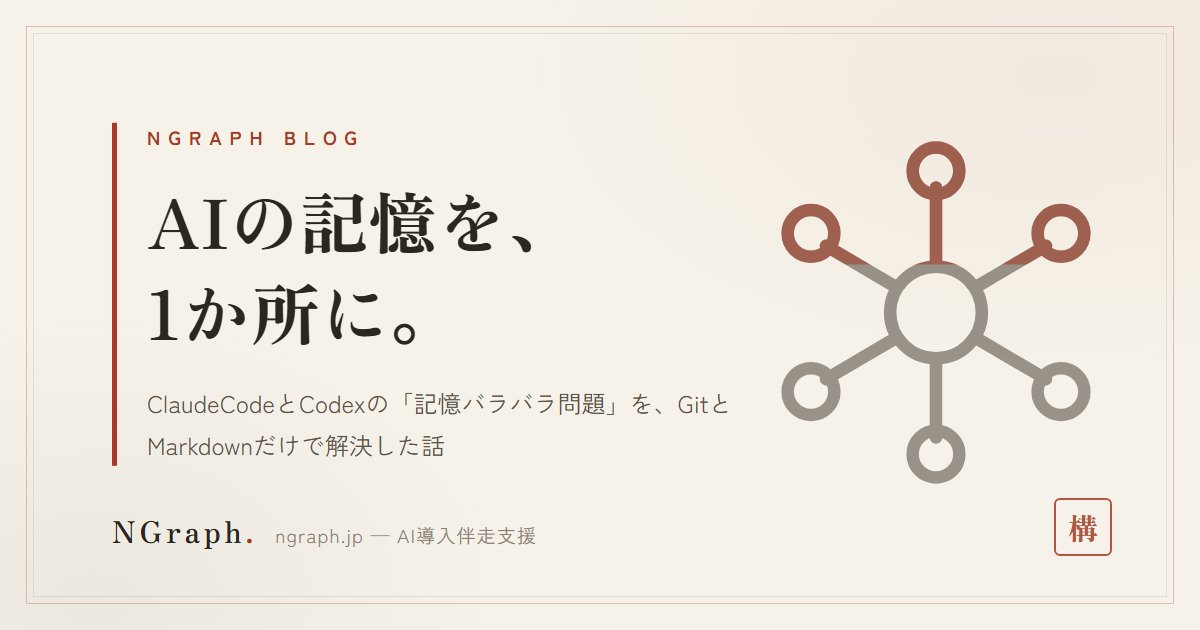
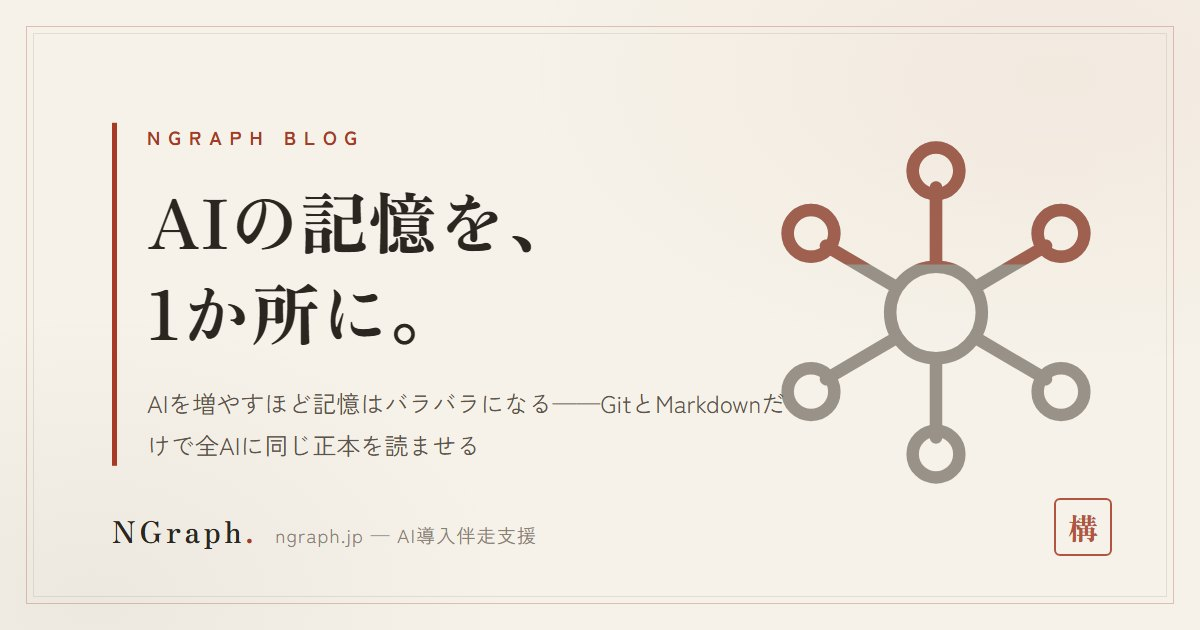
blog: 検収指摘2件修正（旧タイトル残存＝アイキャッチサブ行とFAQ JSON-LD）

Changed region(s): [[0.1233, 0.6032, 0.6475, 0.6635], [0.1233, 0.6937, 0.4008, 0.7238]]

diff --git a/blog/20260804-ai-kenshu-teichaku.html b/blog/20260804-ai-kenshu-teichaku.html
@@ -55,7 +55,7 @@
   {"@type": "Question", "name": "助成率75%は75万円もらえるという意味ですか？", "acceptedAnswer": {"@type": "Answer", "text": "違います。75%は経費助成の率であって、支給額の上限は訓練時間数の区分で決まる限度額(1人1訓練あたり、10時間以上100時間未満は中小企業30万円など)で頭打ちになります。例えば受講料20万円・実訓練時間20時間なら、経費助成は20万円×75%=15万円です。実際の支給可否・金額は労働局の審査によります。"}},
   {"@type": "Question", "name": "何時間の訓練から助成対象になりますか？", "acceptedAnswer": {"@type": "Answer", "text": "人材開発支援助成金(事業展開等リスキリング支援コース)の基本要件は実訓練時間数10時間以上です(eラーニング・通信制は標準学習時間10時間以上または標準学習期間1か月以上)。あわせて、通常の生産活動と区別できないもの(現場実習・営業同行トレーニングなど)は対象外という条件も満たす必要があります。"}},
   {"@type": "Question", "name": "AI活用の定着は、まず誰から始めるべきですか？", "acceptedAnswer": {"@type": "Answer", "text": "記事内で仮説として述べている通り、使い込みには失敗のコストを引き受けられる立場が要ります。多くの中小企業ではそれは社長本人です。まず社長自身が1つの業務で使い込み、次に「使っても評価が下がらない」という前提を作ってから従業員に広げる順序が現実的です。"}},
-  {"@type": "Question", "name": "研修とFDE型伴走支援は何が違うのですか？", "acceptedAnswer": {"@type": "Answer", "text": "研修は「使い方の一覧」を配って終わりますが、上達に要る使い込みは実務の中でしか起きません。FDE型伴走支援は現場に入り、実際の業務でAIを使い込む工程そのものに同席し、使い込んだ人が社内に残る状態まで作ります。詳しくは研修・コンサル・FDE型伴走支援は何が違うのかの記事で解説しています。"}}
+  {"@type": "Question", "name": "研修とFDE型伴走支援は何が違うのですか？", "acceptedAnswer": {"@type": "Answer", "text": "研修は「使い方の一覧」を配って終わりますが、上達に要る使い込みは実務の中でしか起きません。FDE型伴走支援は現場に入り、実際の業務でAIを使い込む工程そのものに同席し、使い込んだ人が社内に残る状態まで作ります。詳しくは研修は「教える」、コンサルは「描く」、FDEは現場で「つくる」——AI導入支援3タイプの選び方の記事で解説しています。"}}
  ]
 }
 </script>

diff --git a/blog/20260801-ai-shared-brain.html b/blog/20260801-ai-shared-brain.html
@@ -76,7 +76,7 @@
   <div class="a-label">Evening Deep Dive</div>
   <h1>AIを増やすほど記憶はバラバラになる——GitとMarkdownだけで全AIに同じ正本を読ませる構築手順</h1>
   <span class="a-date">2026.08.01 夕 ｜ 株式会社NGraph</span>
-  <img class="a-eyecatch" src="/assets/blog/20260801-ai-shared-brain.jpg" alt="AIの記憶を、1か所に。ClaudeCodeとCodexの記憶バラバラ問題をGitとMarkdownで解決した話" loading="lazy">
+  <img class="a-eyecatch" src="/assets/blog/20260801-ai-shared-brain.jpg" alt="AIの記憶を、1か所に。AIを増やすほど記憶はバラバラになる——GitとMarkdownだけで全AIに同じ正本を読ませる構築手順" loading="lazy">
 
 <p>私はClaudeCodeとCodexを毎日併用している。7月末、一部業務をCodex側に移管したあたりから「その話、どっちのAIにしたっけ」が毎日起きるようになった。ClaudeCodeとの会話で決めたことをCodexは知らず、Codexに説明した前提をClaudeCodeは知らない。結局、片方の会話ログをコピペしてもう片方に説明し直す作業が毎日発生する。しかもセッションが変わると、その会話は「無かったこと」になる——次に同じAIを開いても、前回の続きから話が始まらない。この記事は、その「記憶バラバラ問題」を、預かり型のメモリSaaSに頼らず、GitリポジトリとMarkdownだけで解決した手順を、コピペで再現できる形で公開するものだ。</p>
 <div class="a-toc"><strong>この記事でわかること</strong><br>
